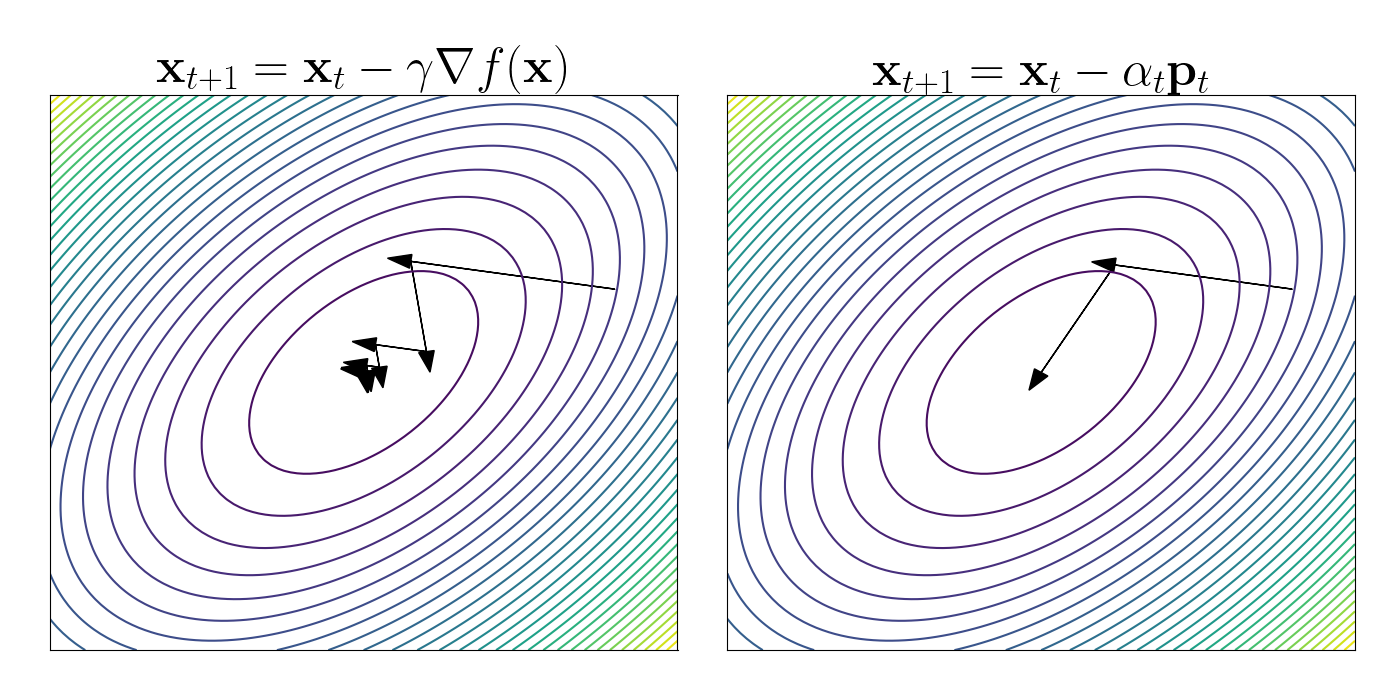
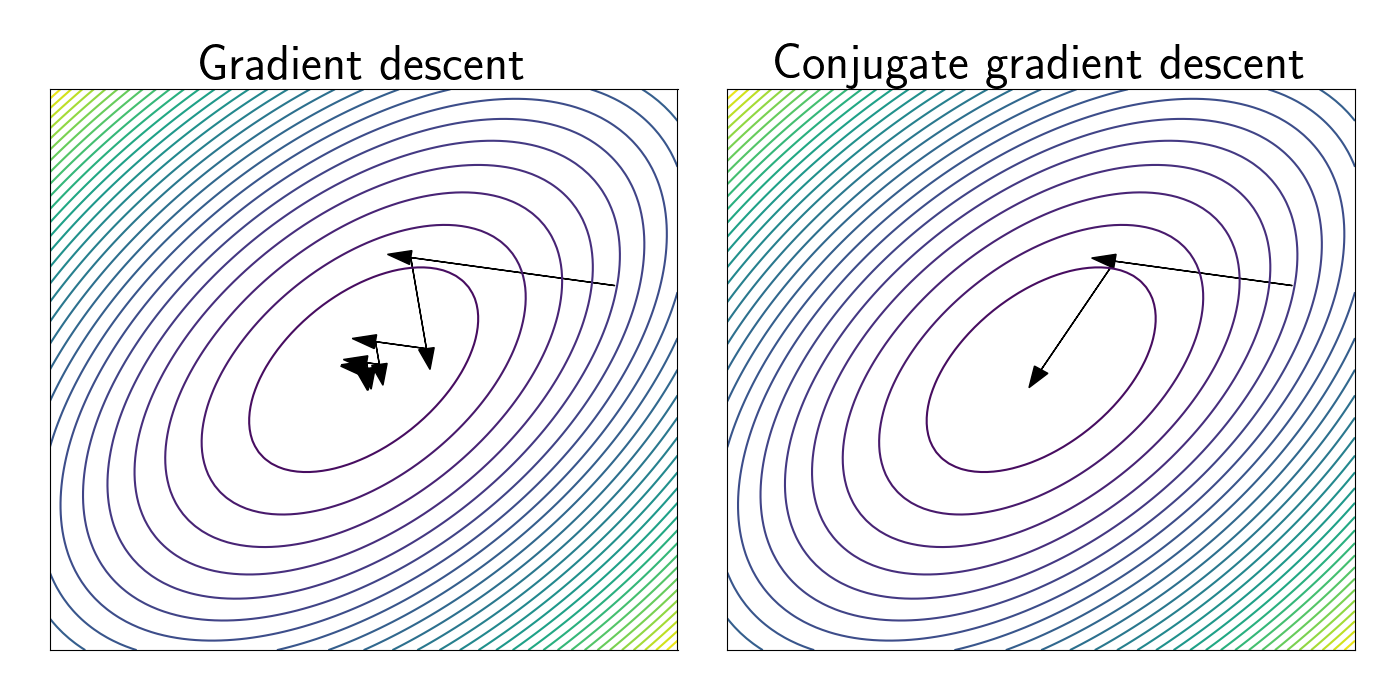
add cgd

diff --git a/_posts/2021-07-24-conjugate-gradients.md b/_posts/2021-07-24-conjugate-gradients.md
@@ -22,19 +22,19 @@ where $\mathbf{A} \in \mathbb{R}^{d \times d}$ and $\mathbf{b} \in \mathbb{R}^d$
 
 One situation that arises frequently that requires solving linear systems is the minimization of a quadratic function. Specifically, consider the following optimization program:
 
-$$\min_\mathbf{x} \frac12 \mathbf{x}^\top \mathbf{A} \mathbf{x} + \mathbf{x}^\top \mathbf{b}.$$
+$$\min_\mathbf{x} \frac12 \mathbf{x}^\top \mathbf{A} \mathbf{x} - \mathbf{x}^\top \mathbf{b}.$$
 
-Clearly, the gradient with respect to $x$ is
+where again $\mathbf{A}$ and $\mathbf{b}$ are known. The gradient with respect to $\mathbf{x}$ is
 
-$$\nabla_{\mathbf{x}} \left[\frac12 \mathbf{x}^\top \mathbf{A} \mathbf{x} + \mathbf{x}^\top \mathbf{b}\right] = \mathbf{A} \mathbf{x} + \mathbf{b}.$$
+$$\nabla_{\mathbf{x}} \left[\frac12 \mathbf{x}^\top \mathbf{A} \mathbf{x} - \mathbf{x}^\top \mathbf{b}\right] = \mathbf{A} \mathbf{x} - \mathbf{b}.$$
 
-In order to minimize our original quadratic function, we'd like to find the zeros of this linear equation such that $\mathbf{A}\mathbf{x} = \mathbf{b}.$
+In order to minimize our original quadratic function, we'd like to find the zeros of this linear equation. Equivalently, we would like to find $\mathbf{x}$ such that $\mathbf{A}\mathbf{x} = \mathbf{b}.$
 
 ### Gaussian likelihoods
 
-When working with Gaussian statistical models, we often encounter likelihoods of the form
+When working with Gaussian statistical models, we often encounter log likelihoods of the form
 
-$$LL = -\frac12 \log |\mathbf{A}| -\frac12 \mathbf{b}^\top \mathbf{A}^{-1} \mathbf{b}$$
+$$LL \propto -\frac12 \log |\mathbf{A}| -\frac12 \mathbf{b}^\top \mathbf{A}^{-1} \mathbf{b}$$
 
 where $\mathbf{A}$ is the covariance matrix of a $d$-dimensional multivariate Gaussian $\mathcal{N}(\mathbf{0}, \mathbf{A})$ in this case. Computing the inverse $\mathbf{A}^{-1}$ will require $O(d^3)$ computation in general. However, if we instead try to directly estimate $\mathbf{A}^{-1} \mathbf{b}$, we can see this is a linear system. In particular, the problem is to find $\mathbf{x}$ such that
 
@@ -62,19 +62,19 @@ Specifically, CGD accounts for the second-order curvature of the loss landscape.
 
 ### Conjugacy
 
-Two vectors $\mathbf{u}$ and $\mathbf{v}$ are said to be $\mathbf{A}$-orthogonal or conjugate with respect to $\mathbf{A}$ if
+Two vectors $\mathbf{u}$ and $\mathbf{v}$ are said to be $\mathbf{A}$-orthogonal or "conjugate with respect to $\mathbf{A}$" if
 
 $$\mathbf{u}^\top \mathbf{A} \mathbf{v} = 0.$$
 
 In other words, $\mathbf{u}$ and $\mathbf{v}$ are orthogonal after accounting for the structure imposed by $\mathbf{A}.$ Note that if $\mathbf{A} = \mathbf{I}$, where $\mathbf{I}$ is the identity matrix, we recover the classic Euclidean notion of orthogonality.
 
-To visualize this notion of orthogonality/conjugacy, consider the animation below. Each plot shows the contours for a quadratic loss function for varying values of $\mathbf{A}$. On top of the contours we plot one vector $(-7, 0)^\top$ in black whose starting point is $(7, 7)^\top.$ Finally, we plot a vector that is $\mathbf{A}$-orthogonal to the black vector in red.
+To visualize this notion of orthogonality/conjugacy, consider the animation below. Each plot shows the contours for a quadratic loss function for varying values of $\mathbf{A}$. On top of the contours we plot one vector $(-7, 0)^\top$ in black whose starting point is $(7, 7)^\top.$ We also plot a vector that is $\mathbf{A}$-orthogonal to the black vector in red.
 
 <center>
 <video style="width:100%; text-align:center; display:block; margin-top:50px;" autoplay loop>
 <source src="/assets/conjugate_gradient_animation.mp4" type="video/mp4">
 </video>
-<figcaption style="margin-bottom:50px;"><i></i></figcaption>
+<figcaption style="margin-bottom:50px;"><i>Illustration of $\mathbf{A}$-orthogonality, also known as conjugacy with respect to $\mathbf{A}.$ For a fixed vector in black, we show an $\mathbf{A}$-orthogonal vector in red for a series of values for $\mathbf{A}.$</i></figcaption>
 </center>
 
 We can see that when $\mathbf{A} = \mathbf{I}$ in the middle of the animation, we recover the traditional notion of orthogonality (a $90^{\circ}$ angle between the vectors). However, for other values of $\mathbf{A}$, orthogonality takes a different form that accounts for the stretching of the contours.
@@ -119,6 +119,32 @@ $$\begin{bmatrix} 1 & -0.5 \\ -0.5 & 1 \end{bmatrix}.$$
 
 Suppose our starting point is $x_0 = (8, 3)^\top,$ and we run both GD and CGD to find $\mathbf{x}^\star.$
 
+Below is a simple Python function for running CGD. For simplicity, it assumes $\mathbf{b} = \mathbf{0}.$
+
+```python
+def CGD(A):
+    d = A.shape[0]                          # Dimension of problem
+    xhat = np.random.normal(size=d)         # Starting point
+
+    # Prepare for first step
+    g = -A @ xhat                           # Compute gradient
+    p = g                                   # First step is in direction of grad
+    g_len = g.T @ g                         # For normalization
+
+    # Start running CGD
+    for ii in range(len(xhat)):
+            Ap = A @ p
+            alpha = g_len / (p.T @ A @ p)   # Step size
+            step = alpha * p                # Combine direction and step size
+            xhat += step                    # Take step
+            g = g - alpha * A @ p
+            g_len_new = g.T @ g
+            p = g + (g_len_new / g_len) * p # Update p
+            g_len = g_len_new
+
+    return xhat
+```
+
 The left panel shows the steps taken by GD. We can see that GD criss-crosses back and forth across the loss landscape, eventually reaching the minimum after several steps.
 
 The right panel shows CGD. We can see that the first step is identical to the first step of GD. This makes sense, as there are no orthogonality constraints on the first step. However, we see that the second step is different from GD. This arises becuase we have projected out the contribution from the direction of the first step. This leads us directly into the minimum in this case.
@@ -126,7 +152,7 @@ The right panel shows CGD. We can see that the first step is identical to the fi
 <center>
 <figure>
   <img src="/assets/conjugate_gradient_descent.png">
-  <figcaption><i></i></figcaption>
+  <figcaption><i>Gradient descent and conjugate gradient descent on a toy problem.</i></figcaption>
 </figure>
 </center>
 
